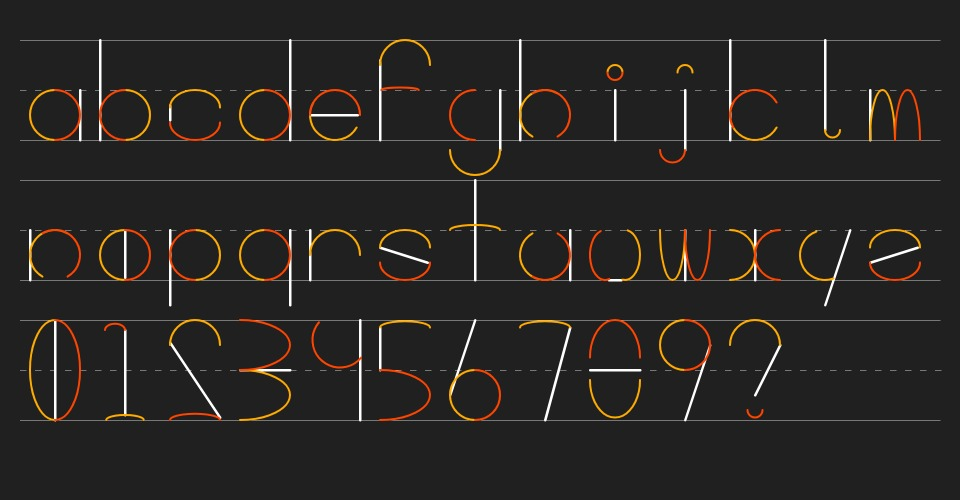
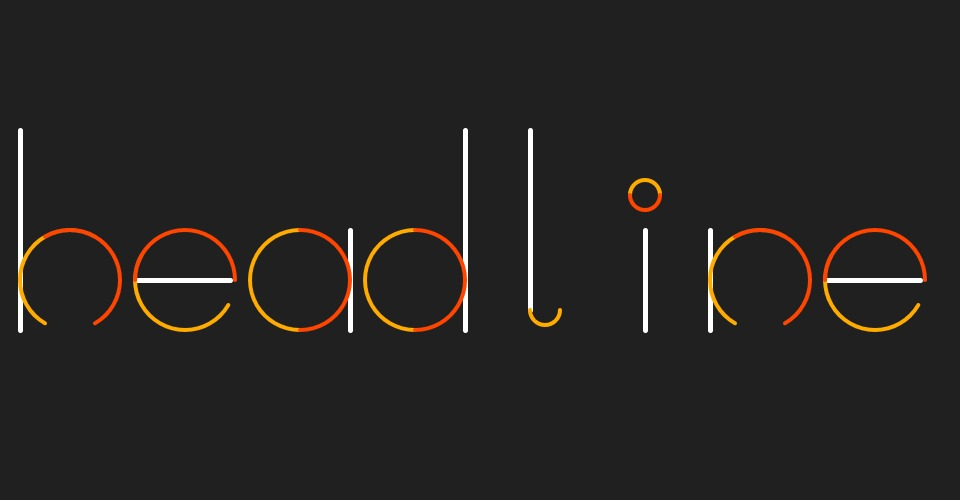
I upated the thumbnail and preview and I updated my readme

diff --git a/sketch.js b/sketch.js
@@ -11,35 +11,47 @@ const canvasHeight = 500;
             relative to the first one
  *
  */
-
 const letterA = {
-  "offsetx": 0,
-  "offsety": 35,
-  "offsetw": 200,
-  "offseth": 200,
+  "rectx": 100,
+  "recty": 230,
 
-  "offsetx": 0,
-  "offsety": 35
+  "offsetx": 110,
+  "offsety": 255,
+  "offsetw": 80,
+  "offseth": 70,
+
+  "offset2x": 110,
+  "offset2y": 270,
+  "offset2w": 80,
+  "offset2h": 30,
 }
 
 const letterB = {
-  "offsetx": 0,
-  "offsety": -145,
-  "offsetw": 100,
-  "offseth": 100,
+  "rectx": 420,
+  "recty": 230,
+  
+  "offsetx": 470,
+  "offsety": 245,
+  "offsetw": 50,
+  "offseth": 30,
+
+  "offset2x": 470,
+  "offset2y": 285,
+  "offset2w": 50,
+  "offset2h": 30,
 }
 
 const letterC = {
-  "offsetx": 30,
-  "offsety": 0,
-  "offsetw": 100,
-  "offseth": 100,
+  "rectx": 700,
+  "recty": 230,
+  
+  "offset2x": 725,
+  "offset2y": 245,
+  "offset2w": 75,
+  "offset2h": 75,
 }
 
-const colorFront1  = "#199cff";
-const colorFront2  = "#7b97c4";
 const colorBack    = "#ffe5c4";
-//const colorStroke  = "#233f11";
 
 function setup () {
   // create the drawing canvas, save the canvas element
@@ -51,25 +63,37 @@ function setup () {
 }
 
 function drawLetter(posx, posy, letterData) {
-  // determine parameters for second circle
-  let pos2x = posx + letterData["offsetx"];
-  let pos2y = posy + letterData["offsety"];
-  let posw = letterData["offsetw"];
-  let posh = letterData["offseth"];
+  // determine parameters
+  let offsetx = letterData["offsetx"];
+  let offsety = letterData["offsety"];
+  let offsetw = letterData["offsetw"];
+  let offseth = letterData["offseth"];
 
-  let pos3x = posx + letterData["offsetx"];
-  let pos3y = posy + letterData["offsety"];
+  let offset2x = letterData["offset2x"];
+  let offset2y = letterData["offset2y"];
+  let offset2w = letterData["offset2w"];
+  let offset2h = letterData["offset2h"];
 
+  let rectx = letterData["rectx"];
+  let recty = letterData["recty"];
+  let w = 100;
+  let h = 100;
 
- //darker ellipse
+  //rectangle
   noFill();
-  stroke(colorFront1);
-  rect(pos2x, pos2y, posw, posh);
+  stroke(0);
+  strokeWeight(2);
+  rect(rectx, recty, w, h, 20);
 
-  //lighter ellipse
-  fill(colorFront2);
-  noStroke();
-  ellipse(pos3x, pos3y, posw, posh);
+  //small rect1
+  noFill();
+  stroke(255);  
+  rect(offsetx, offsety, offsetw, offseth, 15);
+ 
+  //small rect2
+  noFill();
+  stroke(255);
+  rect(offset2x, offset2y, offset2w, offset2h, 15);
 }
 
 function draw () {

diff --git a/draw_letters.js b/draw_letters.js
@@ -29,13 +29,13 @@ function drawLetter(letterData) {
   strokeWeight(5);
   line(l1x, l1y, l2x, l2y);
 
-  //Darker Arc 
+  //yellow Arc 
   noFill();
   stroke(255, 171, 0);
   strokeWeight(4);
   arc(a1x, a1y, aw, ah, radians(a1Start), radians(a1Start+180));
 
-  //Light Arc
+  //red Arc
   stroke(255,69,0);
   strokeWeight(4);
   arc(a2x, a2y, a2w, a2h, radians(a2Start), radians(a2Start+180));
@@ -45,8 +45,8 @@ function interpolate_letter(percent, oldObj, newObj) {
   let new_letter = {};
   new_letter["l1x"] = map(percent, 0, 100, oldObj["l1x"], newObj["l1x"]);
   new_letter["l1y"] = map(percent, 0, 100, oldObj["l1y"], newObj["l1y"]);
-  new_letter["l2x"] = map(percent, 0, 100, oldObj["l2x"], newObj["l2y"]);
-  new_letter["l2y"] = map(percent, 0, 100, oldObj["l2y"], newObj["l2y"]);
+  new_letter["l2x"] = map(percent, 0, 50, oldObj["l2x"], newObj["l2y"]);
+  new_letter["l2y"] = map(percent, 0, 0, oldObj["l2y"], newObj["l2y"]);
   
   new_letter["a1x"] = map(percent, 0, 100, oldObj["a1x"], newObj["a1x"]);
   new_letter["a1y"] = map(percent, 0, 100, oldObj["a1y"], newObj["a1y"]);
@@ -63,7 +63,7 @@ function interpolate_letter(percent, oldObj, newObj) {
 }
 
 var swapWords = [
-  "ABBAABBA",
-  "CAB?CAB?",
-  "BAAAAAAA"
+  "HEADLINE",
+  "LINEARCS",
+  "?LINEAR?"
 ]

diff --git a/index.html b/index.html
@@ -4,7 +4,7 @@
     <script language="javascript" type="text/javascript" src="z_purview_helper.js"></script>
     <script language="javascript" type="text/javascript" src="letters.js"></script>
     <script language="javascript" type="text/javascript" src="draw_letters.js"></script>
-    <script language="javascript" type="text/javascript" src="alphabet.js"></script>
+    <script language="javascript" type="text/javascript" src="exhibition.js"></script>
 </head>
 <body style="background-color:white">
     <div class="outer">

diff --git a/letters.js b/letters.js
@@ -1,4 +1,25 @@
 const alphabet = {
+    "default": {
+
+    "l1x": 0,
+    "l1y": 0,
+    "l2x": 100,
+    "l2y": 200,
+
+    "a1x": 0,
+    "a1y": 50,
+    "a1Start": 30,
+    "aw": 80,
+    "ah": 80,
+
+    "a2x": 0,
+    "a2y": 50,
+    "a2Start": 150,
+    "a2w": 80,
+    "a2h": 80,
+
+  },
+
   "A": {
 
     "l1x": 100,
@@ -537,9 +558,9 @@ const alphabet = {
 
   "2": {
 
-    "l1x": 0,
+    "l1x": 100,
     "l1y": 45,
-    "l2x": 100,
+    "l2x": 0,
     "l2y": 195,
     
     "a1x": 0,

diff --git a/interaction.js b/interaction.js
@@ -1,8 +1,8 @@
 /*
  * Here are some things you can edit
  */
-const colorBack    = "#e3eded";
-const colorLines   = "#000090";
+const colorBack    = "#202020";
+const colorLines   = "#D0D0D0";
 
 /* 
  * do not edit this rest of this file, instead edit the letter
@@ -124,7 +124,7 @@ function draw () {
     if (debugBox) {
       noFill()
       strokeWeight(4);
-      stroke(0, 200, 0);
+      stroke(179, 218, 255, 200);
       rect(0, 0, 100, 200);
     }
 

diff --git a/README.md b/README.md
@@ -1,15 +1,30 @@
 ## PS2 MDDN 242 2019
 
-Progress
+Final Poject
 
-I played around with the shapes that were a but difficult to draw like the j, g and a few others. I also drew the numbers and the ? which were easy as I used some of the letters as a base/starter for the numbers and manipulated them into the number, I also decided to use the whole canvas for the numbers unlike the lower case letters. I kept the same 3 colours but I made sure that the colours were alternating and the same colour wasn't always at the top or bottom.
+For my final project, I decided to use a line and two arcs to create my alphabet. So I wanted to incorporate round shapes and curves in my alphabet as my initial sketch was made up of rounded rectangles. I was initially going to use rectangles, ellipses, and lines but I realised that it was hard to create letters that need a gap or curves to easily define the letter. I originally used a rectangle and ellipses but I didn't like the look of the sharp lines so I altered it for the edges to be curved. I really liked the look of the rounded, flowing look of the letters and I made it so that is was only the outline of the shape as I wanted my letters to resemble as much as the actual letter.
+
+I decided to use 2 different colours for the arcs to show the different arcs and how the letter is created. When you see the letters transitioning, having the arcs gives the illusion that they are rotating around when going onto the next letter. The colours pair well together and it gives a cool effect when changing letters as it alternates colour.
 
 The parameters per letter:
-  * `width` : for my arcs so I can manipulate the shape of it.
-  * `height`: for my arcs so I can manipulate the shape of it.
-  * `arcx` : x position for my arcs and I defined them by adding in the first letter of what the shape is.
-  * `aarcy` : y position for my arcs and I defined them by adding in the first letter of what the shape is.
-  * `llinex` : I have 2 x positions for my line and I defined them by adding in the first letter of what the shape is.
-  * `liney` : I hvae 2 y positions for my line and I defined them by adding in the first letter of what the shape is.
 
+I defined my parameters by the first letter of the shape and with the value.
+
+  * `a1x` : x position for my arcs and I defined them by adding in the first letter of what the shape is.
+  * `a1y` : y position for my arcs and I defined them by adding in the first letter of what the shape is.
+  * `a1w` : for my arcs so I can manipulate the shape of it.
+  * `a1h`: for my arcs so I can manipulate the shape of it.
+  * `a1Start`: for the direction of which the arc faces/draws.
+
+  * `a2x` : x position for my arcs and I defined them by adding in the first letter of what the shape is.
+  * `a2y` : y position for my arcs and I defined them by adding in the first letter of what the shape is.
+  * `a2w` : for my arcs so I can manipulate the shape of it.
+  * `a2h`: for my arcs so I can manipulate the shape of it.
+  * `a2Start`: for the direction of which the arc faces/draws.
+ 
+  * `l1x` : I have 2 x positions for my line and I defined them by adding in the first letter of what the shape is.
+  * `l1y` : I hvae 2 y positions for my line and I defined them by adding in the first letter of what the shape is.
+
+  * `l2x` : I have 2 x positions for my line and I defined them by adding in the first letter of what the shape is.
+  * `l2y` : I hvae 2 y positions for my line and I defined them by adding in the first letter of what the shape is.
 
